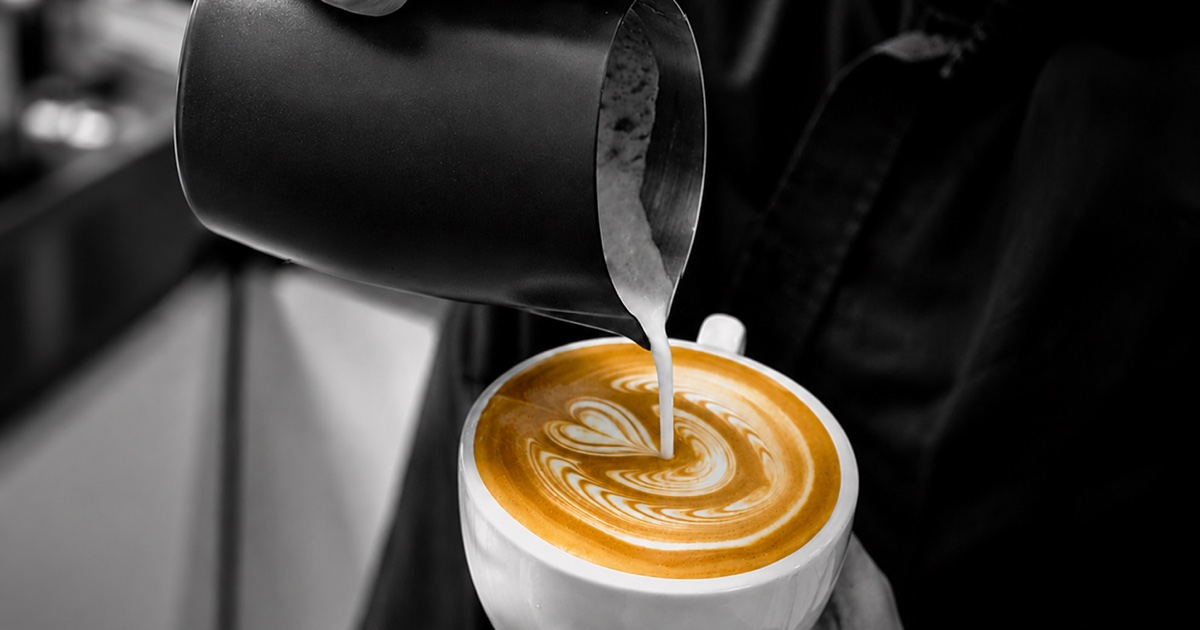
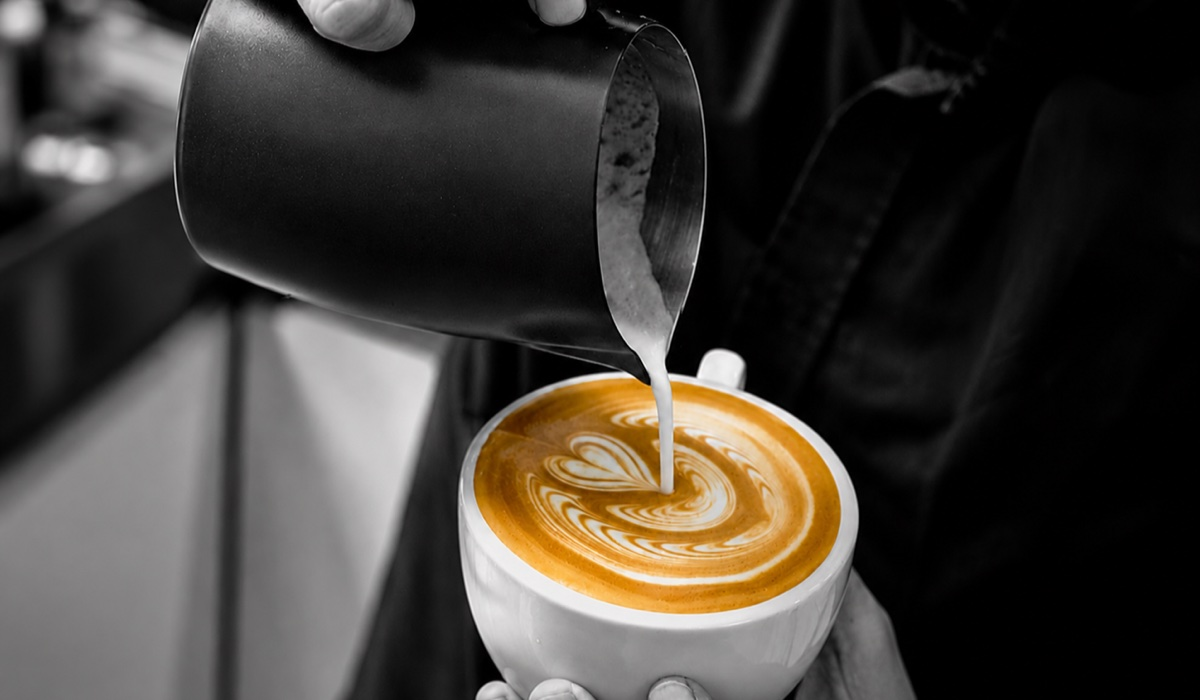
Use a taller 1200x700 crop for the OG cover image

diff --git a/app/layout.tsx b/app/layout.tsx
@@ -37,7 +37,7 @@ export const metadata: Metadata = {
   openGraph: {
     title: ogTitle,
     description: ogDescription,
-    images: [{ url: "/images/og-cover.jpg", width: 1200, height: 630 }],
+    images: [{ url: "/images/og-cover.jpg", width: 1200, height: 700 }],
   },
   twitter: {
     card: "summary_large_image",
